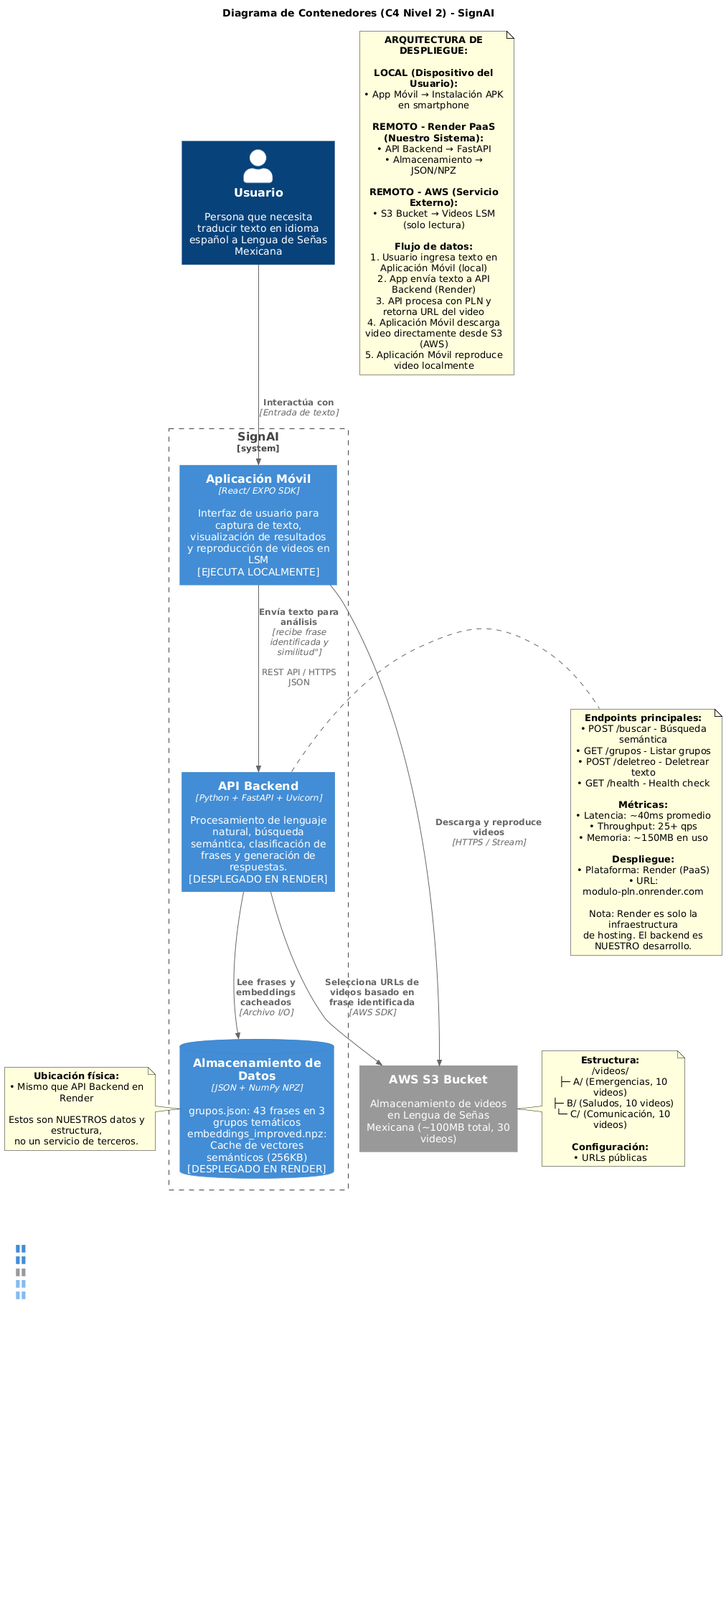
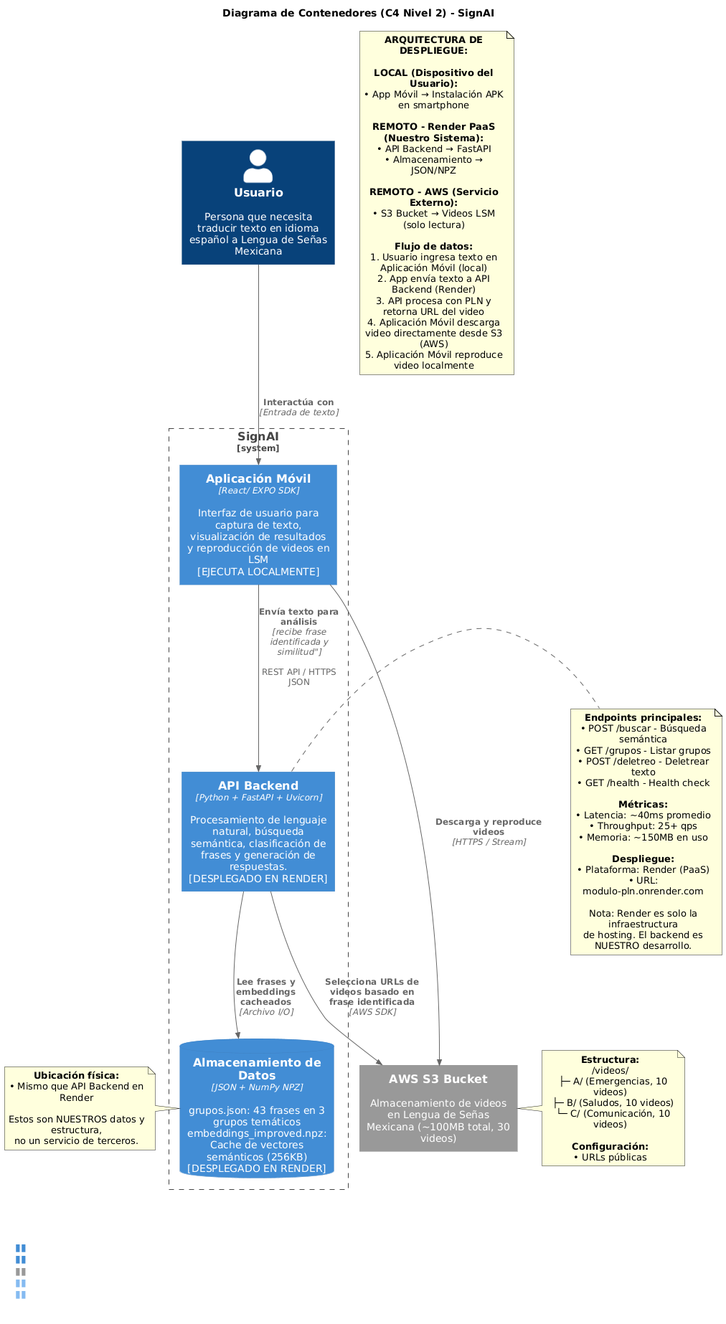
Cambios

diff --git a/Capitulo3.tex b/Capitulo3.tex
@@ -8,21 +8,21 @@ En primer lugar, se analiza la viabilidad, considerando los conocimientos del eq
 El análisis de viabilidad considera los conocimientos técnicos del equipo, la madurez de las tecnologías disponibles y las condiciones actuales para el desarrollo. Este análisis permite evaluar si el proyecto puede llevarse a cabo de manera exitosa bajo las condiciones planteadas.
 
 \subsubsection{Conocimientos y experiencia}
-El equipo de desarrollo posee conocimientos en herramientas de IA, particularmente en Procesamiento de Lenguaje Natural (PLN), así como habilidades básicas en edición y curaduría de recursos audiovisuales. Si bien en etapas tempranas del proyecto se exploraron alternativas basadas en modelado y animación 3D orientada a señas (ver \textbf{\nameref{anexo:blender_unity}}), en el alcance actual del prototipo se optó por un enfoque más acotado y realista, basado en el uso de animaciones en video generadas mediante servicios de IA en la nube.
+El equipo de desarrollo posee conocimientos en herramientas de IA, particularmente en Procesamiento de Lenguaje Natural (PLN), así como habilidades básicas en edición y curaduría de recursos audiovisuales. Si bien en etapas tempranas del proyecto se exploraron alternativas basadas en modelado y animación 3D orientada a señas (ver \textbf{\nameref{anexo:blender_unity}}), en el alcance actual del prototipo se optó por un enfoque más acotado y realista, basado en el uso de animaciones en video generadas mediante servicios de IA en la nube.\\
 
-En concreto, se empleó la plataforma \textit{GoEnhance AI} (\textit{GoEnhance AI - All-in-One AI Video Generator}), la cual permite crear videos a partir de texto, imágenes o clips existentes utilizando modelos avanzados de generación de video (por ejemplo, Runway, Kling o Veo~3). Este enfoque reduce la complejidad técnica asociada al rigging, al control de esqueletos 3D y a la integración de motores gráficos en tiempo real, permitiendo que el equipo concentre sus esfuerzos en el diseño del flujo de traducción, el procesamiento de texto y la integración de los videos de señas en la aplicación móvil.
+En concreto, se empleó la plataforma GoEnhance AI (GoEnhance AI - All-in-One AI Video Generator), la cual permite crear videos a partir de texto, imágenes o clips existentes utilizando modelos avanzados de generación de video (por ejemplo, Runway, Kling o Veo~3). Este enfoque reduce la complejidad técnica asociada al \textit{rigging}, al control de esqueletos 3D y a la integración de motores gráficos en tiempo real, permitiendo que el equipo concentre sus esfuerzos en el diseño del flujo de traducción, el procesamiento de texto y la integración de los videos de señas en la aplicación móvil.\\
 
 Aunque la experiencia directa del equipo en la Lengua de Señas Mexicana (LSM) es limitada, se considera viable la correcta representación de las frases del prototipo mediante el uso de referencias bibliográficas, materiales audiovisuales especializados y la validación manual del contenido generado. La disposición para el aprendizaje continuo y la consulta con fuentes especializadas respalda la viabilidad técnica del proyecto en función de las capacidades actuales del equipo.
 
 \subsubsection{Tecnologías disponibles}
-Actualmente existen diversas tecnologías y herramientas que facilitan la creación de sistemas de apoyo a la traducción de texto a señas, tales como conjuntos de datos de señas en video, plataformas de generación de video con IA, frameworks para el desarrollo de aplicaciones móviles y librerías para el procesamiento de lenguaje natural. En el presente proyecto se privilegiaron soluciones que reducen la carga de infraestructura y la complejidad de integración, aprovechando servicios en la nube y herramientas de desarrollo multiplataforma.
+Actualmente existen diversas tecnologías y herramientas que facilitan la creación de sistemas de apoyo a la traducción de texto a señas, tales como conjuntos de datos de señas en video, plataformas de generación de video con IA, \textit{frameworks} para el desarrollo de aplicaciones móviles y librerías para el procesamiento de lenguaje natural. En el presente proyecto se privilegiaron soluciones que reducen la carga de infraestructura y la complejidad de integración, aprovechando servicios en la nube y herramientas de desarrollo multiplataforma.\\
 
 Las tecnologías consideradas y efectivamente utilizadas en el prototipo incluyen:
 
 \begin{itemize}
 	\item Conjuntos de datos y videos de señas correspondientes a frases seleccionadas en LSM, generados y/o adaptados específicamente para el prototipo.
-	\item La plataforma \textit{GoEnhance AI}, empleada para generar videos de señas a partir de descripciones textuales, lo que permite obtener recursos audiovisuales consistentes sin requerir un pipeline local de modelado 3D ni motores de animación en tiempo real.
-	\item Frameworks de desarrollo móvil como React (19.0.0) y Expo SDK (54.0.0), que facilitan la construcción de una aplicación multiplataforma y la integración de videos de señas en la interfaz de usuario.
+	\item La plataforma GoEnhance AI, empleada para generar videos de señas a partir de descripciones textuales, lo que permite obtener recursos audiovisuales consistentes sin requerir un \textit{pipeline} local de modelado 3D ni motores de animación en tiempo real.
+	\item \textit{Frameworks} de desarrollo móvil como React (19.0.0) y Expo SDK (54.0.0), que facilitan la construcción de una aplicación multiplataforma y la integración de videos de señas en la interfaz de usuario.
 	\item Contenedores identificando las unidades desplegables (aplicación móvil React/Expo, API backend FastAPI con despliegue en Render PaaS, almacenamiento JSON/NPZ y un bucket de AWS S3 para el servicio de animaciones en video)
 	\item Herramientas de Procesamiento de Lenguaje Natural (PLN) para el análisis, normalización y segmentación de frases en español, que permiten mapear las entradas de texto de los usuarios a las frases disponibles en el repositorio de señas.
 \end{itemize}
@@ -36,7 +36,7 @@ El proyecto se desarrolla en el marco de un trabajo terminal académico, lo que 
 \subsection{Factibilidad}
 La factibilidad del proyecto se analiza considerando los recursos financieros, humanos y tecnológicos disponibles, así como el tiempo estimado para su desarrollo y finalización.
 
-\subsubsection{Recursos financieros}
+\noindent \textbf{Recursos financieros}
 El presente apartado tiene como objetivo evaluar los costos asociados al desarrollo, despliegue y potencial comercialización del prototipo. 
 
 Para ello, se plantea un análisis financiero estructurado en dos niveles: 
@@ -116,12 +116,12 @@ A continuación, se detallan los costos asociados a los servicios necesarios par
 			\hline
 			\textbf{Recurso o servicio} & \textbf{Costo mensual (MXN \$)} & \textbf{Costo a 4 meses (MXN \$)} & \textbf{Costo a 1 año (MXN \$)} \\ \hline
 			Electricidad e internet (oficina dedicada) & \$2,500.00 & \$10,000.00 & \$30,000.00 \\ \hline
-			Renta de espacio de coworking (para 4 personas) & \$9,000.00 & \$36,000.00 & \$108,000.00 \\ \hline
+			Renta de espacio de \textit{co-working} (para 4 personas) & \$9,000.00 & \$36,000.00 & \$108,000.00 \\ \hline
 			Suscripción a plataformas de desarrollo (GitHub Copilot, AWS, etc.) & \$800.00 & \$3,200.00 & \$9,600.00 \\ \hline
 			API de lenguaje natural (OpenAI GPT, DialogFlow) & \$1,000.00 & \$4,000.00 & \$12,000.00 \\ \hline
 			Servicios de almacenamiento en la nube (Google Cloud, Firebase, etc.) & \$750.00 & \$3,000.00 & \$9,000.00 \\ \hline
 			Servidor para aplicación móvil (Firebase/AWS) & \$1,200.00 & \$4,800.00 & \$14,400.00 \\ \hline
-			Licencia de software y/o servicios para animación y edición de video & \$1,500.00 & \$6,000.00 & \$18,000.00 \\ \hline
+			Licencia de \textit{software} y/o servicios para animación y edición de video & \$1,500.00 & \$6,000.00 & \$18,000.00 \\ \hline
 			Validación profesional de señas LSM (freelancer mensual) & \$5,000.00 & \$20,000.00 & \$60,000.00 \\ \hline
 			Servicios de soporte técnico y mantenimiento & \$3,000.00 & \$12,000.00 & \$36,000.00 \\ \hline
 			Marketing digital (redes sociales, web, SEO) & \$2,000.00 & \$8,000.00 & \$24,000.00 \\ \hline
@@ -133,7 +133,7 @@ A continuación, se detallan los costos asociados a los servicios necesarios par
 	\label{tab:costos_comercial}
 \end{table}
 
-
+\newpage
 \paragraph{\textbf{Compras no recurrentes.}} 
 En esta sección se presentan los costos estimados de artículos y adquisiciones necesarias para la creación del prototipo, clasificadas como compras no recurrentes. Estas compras representan inversiones únicas que no implican costos periódicos, pero que son fundamentales para el correcto desarrollo y prueba de la aplicación.
 
@@ -148,7 +148,7 @@ En esta sección se presentan los costos estimados de artículos y adquisiciones
 			\textbf{Recurso} & \textbf{Unidades} & \textbf{Costo unitario (MXN \$)} & \textbf{Costo total (MXN \$)} \\ \hline
 			Equipo de cómputo personal (propio de los integrantes) & 3 & -- & -- \\ \hline
 			Dispositivo Android para pruebas físicas & 1 & -- & -- \\ \hline
-			Capacitación online (cursos: PLN, LSM, Nube, etc.) & 3 cursos & \$800.00 & \$2,400.00 \\ \hline
+			Capacitación \textit{online} (cursos: PLN, LSM, Nube, etc.) & 3 cursos & \$800.00 & \$2,400.00 \\ \hline
 			Compra de recursos para animaciones (opcional) & 1 paquete & \$2,500.00 & \$2,500.00 \\ \hline
 			\textbf{Total compras no recurrentes} & & & \textbf{\$4,900.00} \\ \hline
 		\end{tabular}
@@ -200,8 +200,8 @@ El presente apartado presenta el costo estimado de los sueldos y asesorías cons
 			\hline
 			\textbf{Equipo} & \textbf{Cantidad} & \multicolumn{2}{c|}{\textbf{Desarrollo}} & \multicolumn{2}{c|}{\textbf{Mantenimiento / Ajustes}} \\ \hline
 			\textbf{Tipo} & & \textbf{Mensual (MXN \$)} & \textbf{4 meses (MXN \$)} & \textbf{Mensual (MXN \$)} & \textbf{A un año (MXN \$)} \\ \hline
-			Desarrollador Full Stack Junior (estudiante) & 3 & \$72,000.00 (\$24,000.00 c/u) & \$288,000.00 & -- & -- \\ \hline
-			Asesoría en animaciones (freelance) & 1 parcial & \$300.00 (por sesión) & \$1,200.00 (cuatro sesiones) & -- & -- \\ \hline
+			Desarrollador \textit{Full Stack Junior} (estudiante) & 3 & \$72,000.00 (\$24,000.00 c/u) & \$288,000.00 & -- & -- \\ \hline
+			Asesoría en animaciones (\textit{freelance}) & 1 parcial & \$300.00 (por sesión) & \$1,200.00 (cuatro sesiones) & -- & -- \\ \hline
 			Asesoría en LSM (validación de señas) & 1 parcial & \$200.00 (por sesión) & \$800.00 (cuatro sesiones) & -- & -- \\ \hline
 			\textbf{Total} & \textbf{5} & \textbf{\$72,500.00} & \textbf{\$290,000.00} & -- & -- \\ \hline
 		\end{tabular}
@@ -224,7 +224,7 @@ el sueldo en este caso, se considera un pago simbólico, sin embargo, el sueldo 
 			\hline
 			\textbf{Rol / Servicio} & \textbf{Cantidad} & \multicolumn{2}{c|}{\textbf{Desarrollo}} & \multicolumn{2}{c|}{\textbf{Mantenimiento / Ajustes}} \\ \hline
 			\textbf{Tipo} & & \textbf{Mensual (MXN \$)} & \textbf{4 meses (MXN \$)} & \textbf{Mensual (MXN \$)} & \textbf{A un año (MXN \$)} \\ \hline
-			Desarrollador backend / frontend & 2 & \$28,000.00 & \$224,000.00 & \$16,000.00 & \$192,000.00 \\ \hline
+			Desarrollador \textit{backend} / \textit{frontend} & 2 & \$28,000.00 & \$224,000.00 & \$16,000.00 & \$192,000.00 \\ \hline
 			Especialista en PLN & 1 & \$30,000.00 & \$120,000.00 & \$15,000.00 & \$180,000.00 \\ \hline
 			Diseñador de animaciones / animador & 1 & \$25,000.00 & \$100,000.00 & \$12,000.00 & \$144,000.00 \\ \hline
 			Asesoría profesional en LSM & 1 parcial & \$10,000.00 & \$40,000.00 & \$5,000.00 & \$60,000.00 \\ \hline
@@ -243,7 +243,7 @@ La columna de “Mantenimiento / Ajustes” se incluye únicamente como referenc
 
 
 \paragraph{\textbf{Presupuesto mediante actividades.}} 
-En el siguiente apartado, se presenta el presupuesto detallado por actividades, donde se especifica el tiempo estimado y el costo asociado a cada tarea del proyecto. Además, los valores por hora se ajustan para una estimación freelance o contratista externo (no asalariado fijo), ideal para la simulación de costos comerciales.  Los sueldos se consideran como un aproximado en México con fecha de mayo de 2025 \cite{ref71, ref72, ref73, ref74, ref75, ref76, ref77}.\\
+En el siguiente apartado, se presenta el presupuesto detallado por actividades, donde se especifica el tiempo estimado y el costo asociado a cada tarea del proyecto. Además, los valores por hora se ajustan para una estimación \textit{freelance} o contratista externo (no asalariado fijo), ideal para la simulación de costos comerciales.  Los sueldos se consideran como un aproximado en México con fecha de mayo de 2025 \cite{ref71, ref72, ref73, ref74, ref75, ref76, ref77}.\\
 
 Las actividades específicas y sus tiempos estimados se encuentran detallados en los anexos titulados \textbf{\nameref{anexo:actividades_academicas}} y \textbf{\nameref{anexo:actividades_comercial}} .
 
@@ -356,6 +356,7 @@ Esta doble perspectiva permite comparar la ejecución del despliegue del prototi
 \paragraph{\textbf{Escenario de posible futura etapa de comercialización.}}
 Este apartado presenta una proyección financiera elaborada bajo un enfoque comercial, con el objetivo de estimar los costos y condiciones necesarias para escalar el prototipo de aplicación a un producto funcional en el mercado. Aunque el presente trabajo terminal tiene un carácter académico, esta simulación permite anticipar los requerimientos económicos y técnicos para una eventual implementación comercial.
 
+\newpage
 \paragraph{\textbf{Análisis de costos.}}
 A continuación, se presenta el desglose de costos estimados para una fase inicial de comercialización del prototipo, considerando sueldos profesionales, infraestructura tecnológica, servicios especializados, mantenimiento y una reserva para riesgos:
 
@@ -424,14 +425,12 @@ Redondeando al entero más cercano:
 	\textbf{Nota final:} esta simulación financiera tiene carácter exploratorio y busca establecer un marco inicial para la evaluación económica del producto. Las cifras deberán ser validadas y refinadas mediante estudios de mercado y pruebas piloto antes de su implementación real.
 \end{flushleft}
 
-
-
-\subsubsection{Recursos humanos}
-El equipo de desarrollo está conformado por tres estudiantes de la carrera de Ingeniería en Inteligencia Artificial, con experiencia académica en proyectos de Ingeniería de software. Esta preparación garantiza que el equipo cuenta con las competencias necesarias para realizar el análisis, diseño, implementación, prueba y validación del prototipo propuesto.\\
+\textbf{Recursos humanos}\\
+El equipo de desarrollo está conformado por tres estudiantes de la carrera de Ingeniería en Inteligencia Artificial, con experiencia académica en proyectos de Ingeniería de \textit{software}. Esta preparación garantiza que el equipo cuenta con las competencias necesarias para realizar el análisis, diseño, implementación, prueba y validación del prototipo propuesto.\\
 
 Adicionalmente, se contempla la posibilidad de realizar capacitaciones específicas sobre LSM, manejo de conjuntos de datos de señas y técnicas de animación 3D, con el objetivo de reforzar el conocimiento técnico necesario para los módulos especializados del sistema.\\
 
-La asignación de tres integrantes al proyecto se fundamenta mediante una estimación del esfuerzo utilizando el modelo \textbf{COCOMO II (Constructive Cost Model II)}, específicamente en su modalidad \textit{Early Design Model}, apropiada para proyectos en etapas iniciales \cite{refcocomo}.\\
+La asignación de tres integrantes al proyecto se fundamenta mediante una estimación del esfuerzo utilizando el modelo \textbf{COCOMO II (\textit{Constructive Cost Model II})}, específicamente en su modalidad \textit{Early Design Model}, apropiada para proyectos en etapas iniciales \cite{refcocomo}.\\
 
 La fórmula del modelo es la siguiente:
 
@@ -444,7 +443,7 @@ Donde:
 \begin{itemize}
 	\item \textbf{PM} = Persona-meses estimados de esfuerzo.
 	\item \textbf{A} = Constante base del modelo. Se usa el valor estándar de $A = 2.94$.
-	\item \textbf{Tamaño} = Tamaño estimado del software en miles de líneas de código (KLOC). Se considera un tamaño de $2$ KLOC (2,000 líneas de código).
+	\item \textbf{Tamaño} = Tamaño estimado del \textit{software} en miles de líneas de código (KLOC). Se considera un tamaño de $2$ KLOC (2,000 líneas de código).
 	\item \textbf{E} = Exponente de escala. Para este proyecto se asume $E = 1.05$, valor apropiado para proyectos con requisitos moderadamente definidos.
 	\item $\prod EM_i$ = Producto de los multiplicadores de esfuerzo. Se asume un valor neutral de $1.0$, al tratarse de un entorno académico con condiciones estándar.
 \end{itemize}
@@ -471,10 +470,10 @@ Aunque el esfuerzo promedio mensual es inferior a una persona de tiempo completo
 \end{itemize}
 
 
-\subsubsection{Recursos tecnológicos}
-El equipo de trabajo dispone del equipo de cómputo necesario para el desarrollo, prueba y validación de la aplicación móvil. Además, se cuenta con acceso a las plataformas de desarrollo y a las herramientas de software requeridas, tales como ambientes de programación, bibliotecas especializadas de procesamiento de lenguaje natural (PLN), etc. Esta disponibilidad de recursos tecnológicos garantiza las condiciones adecuadas para la implementación efectiva del prototipo.
+\noindent \textbf{Recursos tecnológicos}\\
+El equipo de trabajo dispone del equipo de cómputo necesario para el desarrollo, prueba y validación de la aplicación móvil. Además, se cuenta con acceso a las plataformas de desarrollo y a las herramientas de \textit{software} requeridas, tales como ambientes de programación, bibliotecas especializadas de procesamiento de lenguaje natural (PLN), etc. Esta disponibilidad de recursos tecnológicos garantiza las condiciones adecuadas para la implementación efectiva del prototipo.\\
 
-\subsubsection{Plazo}
+\noindent \textbf{Plazo}\\
 El tiempo estimado para el desarrollo del prototipo es de aproximadamente ocho meses, considerando las fases de análisis, diseño, desarrollo, pruebas y presentación final. Dado que el alcance del proyecto se limita a la traducción de un conjunto predefinido de frases específicas, se considera que el plazo establecido es adecuado para cumplir con los objetivos planteados y la solución propuesta. \\
 
 El análisis realizado en esta sección, permite concluir que el proyecto es tanto viable como factible dentro del contexto académico en el cual se desarrolla. El equipo de trabajo cuenta con los conocimientos fundamentales, el acceso a las tecnologías requeridas y los recursos necesarios para la construcción de un prototipo funcional. Aunque se han identificado áreas que demandarán un proceso de capacitación complementaria como el aprendizaje de LSM y el entendimiento de las herramientas de animación, estas no representan un obstáculo significativo para el éxito del proyecto, siempre que se mantenga una adecuada gestión de tiempos y actividades conforme a los alcances establecidos. De este modo, se fortalecen las condiciones para lograr un desarrollo efectivo que cumpla con los objetivos planteados y a futuro siente las bases para una posible expansión comercial.\\
@@ -484,11 +483,11 @@ El análisis realizado en esta sección, permite concluir que el proyecto es tan
 \subsection{Arquitectura del sistema (modelo C4 y capas)}
 \subsubsection{Arquitectura del sistema (modelo C4 y capas)}
 
-La arquitectura de SignAI se documenta mediante el modelo C4 (\textit{Context, Containers, Components, Code}) propuesto por \cite{brown2018c4}, y adoptado en contextos académicos como complemento de UML por \cite{vazquez2020c4}. En este trabajo se implementan tres de sus cuatro niveles jerárquicos: \textbf{Contexto}, que establece el sistema como una caja negra dentro de su ecosistema; \textbf{Contenedores}, que identifican las unidades desplegables (aplicación móvil React/Expo, API backend FastAPI con despliegue en Render PaaS, almacenamiento JSON/NPZ y servicio externo AWS S3); y \textbf{Componentes}, que detallan la estructura interna del backend mediante sus módulos principales (API Layer, Matcher PLN, Embeddings Service, Preprocess Module y Groups Manager). El cuarto nivel (\textit{Code}) se sustituye por un diagrama de clases UML, enfoque consistente con la postura de \cite{brown2018c4} y con la experiencia reportada por \cite{vazquez2020c4}, quienes señalan que el modelo C4 complementa a UML en lugar de reemplazarlo.
+La arquitectura de SignAI se documenta mediante el modelo C4 (\textit{Context, Containers, Components, Code}) propuesto por \cite{brown2018c4}, y adoptado en contextos académicos como complemento de UML por \cite{vazquez2020c4}. En este trabajo se implementan tres de sus cuatro niveles jerárquicos: \textbf{Contexto}, que establece el sistema como una caja negra dentro de su ecosistema; \textbf{Contenedores}, que identifican las unidades desplegables (aplicación móvil React/Expo, API \textit{backend} FastAPI con despliegue en Render PaaS, almacenamiento JSON/NPZ y servicio externo AWS S3); y \textbf{Componentes}, que detallan la estructura interna del backend mediante sus módulos principales (API \textit{Layer}, \textit{Matcher} PLN, \textit{Embeddings Service}, \textit{Preprocess Module} y  \textit{Groups Manager}). El cuarto nivel (\textit{Code}) se sustituye por un diagrama de clases UML, enfoque consistente con la postura de \cite{brown2018c4} y con la experiencia reportada por \cite{vazquez2020c4}, quienes señalan que el modelo C4 complementa a UML en lugar de reemplazarlo.\\
 
-Adicionalmente, se incluyó un diagrama de arquitectura por capas que documenta la separación lógica presentación–servicios–datos, siguiendo los principios de \textit{Separation of Concerns} descritos por \cite{fowler2002patterns}. La decisión de implementar una arquitectura monolítica modular, en lugar de una basada en microservicios, responde a criterios de proporcionalidad arquitectónica: el sistema aborda un único dominio de negocio (procesamiento de lenguaje natural para búsqueda semántica en LSM), maneja un volumen de datos acotado (43 frases con \textit{embeddings} precomputados de aproximadamente 256~KB) y carece de requisitos que justifiquen la complejidad operacional de una arquitectura distribuida (como escalado independiente por componente, despliegue políglota o múltiples equipos trabajando en paralelo), tal como advierte la literatura especializada sobre los costes organizativos y técnicos de los microservicios en sistemas pequeños o de un solo dominio \cite{dragoni2017micro,aldebagy2018comparative,newman2021microservices}.
+Adicionalmente, se incluyó un diagrama de arquitectura por capas que documenta la separación lógica presentación–servicios–datos, siguiendo los principios de \textit{Separation of Concerns} descritos por \cite{fowler2002patterns}. La decisión de implementar una arquitectura monolítica modular, en lugar de una basada en microservicios, responde a criterios de proporcionalidad arquitectónica: el sistema aborda un único dominio de negocio (procesamiento de lenguaje natural para búsqueda semántica en LSM), maneja un volumen de datos acotado (43 frases con \textit{embeddings} precomputados de aproximadamente 256~KB) y carece de requisitos que justifiquen la complejidad operacional de una arquitectura distribuida (como escalado independiente por componente, despliegue políglota o múltiples equipos trabajando en paralelo), tal como advierte la literatura especializada sobre los costes organizativos y técnicos de los microservicios en sistemas pequeños o de un solo dominio \cite{dragoni2017micro,aldebagy2018comparative,newman2021microservices}.\\
 
-El diseño monolítico modular, con bajo acoplamiento entre componentes internos, facilita una posible migración futura a microservicios cuando las métricas de tráfico, el tamaño del \textit{dataset} o la complejidad organizacional lo justifiquen. Esta progresión documental, desde vistas de alto nivel (Contexto, Contenedores, Capas) hasta detalles de implementación (Componentes y diagrama de clases UML), permite una comprensión arquitectónica tanto para stakeholders técnicos como no técnicos, en concordancia con las mejores prácticas de documentación de arquitectura de software establecidas por \cite{bass2012software} y con las directrices del estándar ISO/IEC/IEEE~42010:2011 \cite{iso42010}, que recomiendan describir la arquitectura mediante múltiples vistas consistentes alineadas con las preocupaciones de los distintos interesados.
+El diseño monolítico modular, con bajo acoplamiento entre componentes internos, facilita una posible migración futura a microservicios cuando las métricas de tráfico, el tamaño del \textit{dataset} o la complejidad organizacional lo justifiquen. Esta progresión documental, desde vistas de alto nivel (Contexto, Contenedores, Capas) hasta detalles de implementación (Componentes y diagrama de clases UML), permite una comprensión arquitectónica tanto para \textit{stakeholders} técnicos como no técnicos, en concordancia con las mejores prácticas de documentación de arquitectura de \textit{software} establecidas por \cite{bass2012software} y con las directrices del estándar ISO/IEC/IEEE~42010:2011 \cite{iso42010}, que recomiendan describir la arquitectura mediante múltiples vistas consistentes alineadas con las preocupaciones de los distintos interesados.
 
 \subsubsection{Diagrama de contexto (C4 nivel 1)}
 \begin{center}
@@ -499,11 +498,12 @@ El diseño monolítico modular, con bajo acoplamiento entre componentes internos
 
 \subsubsection{Diagrama de contenedores (C4 nivel 2)}
 \begin{center}
-	\includegraphics[width=0.4\textwidth]{Images/Cap 3/contenedores_vf.png}
+	\includegraphics[width=0.7\textwidth]{Images/Cap 3/contenedores_vf.png}
 	\captionof{figure}[Diagrama de contenedores (C4 nivel 2)]{Diagrama de contenedores (C4 nivel 2), elaboración propia. 
 		Véase la versión SVG para mayor detalle en \href{https://tinyurl.com/4wjeeuzb}{\textbf{\underline{este enlace}}}.}  % Pie de foto manual
 \end{center}
 
+\newpage
 \subsubsection{Diagrama de componentes (C4 nivel 3)}
 \begin{center}
 	\includegraphics[width=0.4\textwidth]{Images/Cap 3/componentes_vf.png}
@@ -644,12 +644,12 @@ En este caso, los requerimientos no funcionales se basaron en los especificados 
 \subsubsection{Diagrama de actividades} 
 \begin{center}
 	\makebox[\textwidth]{%
-		\includegraphics[width=1\textwidth]{Images/Cap 3/actividades.png}
+		\includegraphics[width=0.94\textwidth]{Images/Cap 3/actividades.png}
 	}
 	\captionof{figure}[Diagrama de actividades del sistema]{Diagrama de actividades del sistema, elaboración propia.}
 \end{center}
 
-
+\newpage
 \subsubsection{Diagrama de clases}
 \begin{center}
 	\includegraphics[width=0.4\textwidth]{Images/Cap 3/clases_vf.png}
@@ -714,7 +714,7 @@ El usuario ingresa texto en la aplicación, que luego es procesado y traducido a
 	\label{tab:caso_uso_1}
 \end{table}
 
-
+\newpage
 \subsubsection{Trayectoria principal}
 \begin{enumerate}[label=\textbf{\arabic*}, leftmargin=1.5cm]
 	\item \UCsystem \ El sistema muestra un campo de entrada de texto en la pantalla principal de la aplicación, permitiendo al usuario ingresar texto.  
@@ -760,18 +760,24 @@ El usuario ingresa texto en la aplicación, que luego es procesado y traducido a
 	\centering
 	\begin{tabularx}{\textwidth}{|X|X|X|}
 		\hline
-		\textbf{Emergencia (3 a 4 palabras)} & \textbf{Saludo (1 a 3 palabras)} & \textbf{Expresiones de Mínima Comunicación (2 a 4 palabras)} \\ \hline
+		\textbf{Emergencia (3 a 4 palabras)} & \textbf{Saludo (1 a 3 palabras)} & \textbf{Expresiones de Mínima Comunicación (1 a 3palabras)} \\ \hline
 		Ayuda, por favor. & Hola. & Gracias. \\ \hline
 		Llama a la policía. & Buenos días. & Soy Sordo. \\ \hline
 		Necesito un médico. & Buenas tardes. & Sí. \\ \hline
 		Estoy herido. & Buenas noches. & No. \\ \hline
 		¿Dónde está el hospital? & ¿Cómo estás? & Bien. \\ \hline
 		Es una emergencia. & Bienvenido. & Mal. \\ \hline
-		¿Necesitas ayuda? & Encantado de conocerte. & Perdón. \\ \hline
+		¿Necesitas ayuda? & Mucho gusto. & Perdón. \\ \hline
 		¿Dónde está la salida? & ¿Cómo te llamas? & Entiendo. \\ \hline
-		¡Fuego! ¡Fuego! & Me llamo [nombre]. & No Entiendo. \\ \hline
+		Incendio & Me llamo [nombre]. & No Entiendo. \\ \hline
 		Estoy sangrando. & Nos vemos. & No lo sé. \\ \hline
-		Alto. & Me voy. & Espera \\ \hline
+		Alto. & Me voy. & Muchas gracias. \\ \hline
+		Auxilio. & Adios. & Te lo agradezco. \\ \hline
+		Socorro. & Hasta luego. & Espera. \\ \hline
+		 &  & Disculpa. \\ \hline
+		 &  & Lo siento. \\ \hline
+		 &  & De acuerdo. \\ \hline
+		 &  & Vale. \\ \hline
 	\end{tabularx}
 	\caption[Identificación de frases]{Identificación de frases, elaboración propia.}
 \end{table}

diff --git a/Capitulo4.tex b/Capitulo4.tex
@@ -2,15 +2,15 @@
 \section{Justificación de los cambios}
 \label{implementación:justificación_cambios}
 
-Durante la fase de planeación se estableció un conjunto de 33 frases, distribuidas en tres categorías principales: saludos, expresiones de emergencia y agradecimientos, con el propósito de representar situaciones comunes de comunicación básica. Sin embargo, se identificó que las frases correspondientes a la categoría de agradecimientos como “gracias”, “muchas gracias” o “te lo agradezco” compartían un mismo gesto en LSM. Esto generaba redundancia semántica y gestual, ya que diferentes frases se traducían a una única seña, sin aportar valor adicional al conjunto de datos ni al propósito comunicativo del prototipo.\\
+Durante la fase de planeación se estableció un conjunto de 43 frases, distribuidas en tres categorías principales: saludos, expresiones de emergencia y agradecimientos, con el propósito de representar situaciones comunes de comunicación básica. Sin embargo, se identificó que las frases correspondientes a la categoría de agradecimientos como “gracias”, “muchas gracias” o “te lo agradezco” compartían un mismo gesto en LSM. Esto generaba redundancia semántica y gestual, ya que diferentes frases se traducían a una única seña, sin aportar valor adicional al conjunto de datos ni al propósito comunicativo del prototipo.\\
 
 Se optó por sustituir la categoría de agradecimientos por una nueva categoría denominada expresiones de mínima comunicación, la cual incluye frases breves y funcionales utilizadas en interacciones cotidianas. Esta modificación permitió ampliar la cobertura comunicativa del prototipo, garantizando una mayor variedad de gestos en escenarios reales de comunicación entre personas oyentes y personas con discapacidad auditiva.\\
 
 Por otro lado, en el capítulo 1 y 2 se indicó que el desarrollo del prototipo incluiría el modelado 3D de avatares mediante MediaPipe, con procesamiento en Blender o Unity. Sin embargo, durante el desarrollo del Trabajo Terminal se identificaron diversas limitaciones técnicas y operativas que impidieron la implementación de esta fase.\\
 
-MediaPipe permite capturar un esqueleto en forma de nube de puntos a partir de un video o en tiempo real, generando un archivo en formato JSON con las coordenadas de las articulaciones. Este archivo puede convertirse a formato BVH para su uso en software de animación como Blender. No obstante, se observó que MediaPipe no logra capturar la totalidad de las articulaciones del cuerpo humano, lo que ocasiona que el archivo BVH resultante esté incompleto al momento de su importación en Blender.\\
+MediaPipe permite capturar un esqueleto en forma de nube de puntos a partir de un video o en tiempo real, generando un archivo en formato JSON con las coordenadas de las articulaciones. Este archivo puede convertirse a formato BVH para su uso en \textit{software} de animación como Blender. No obstante, se observó que MediaPipe no logra capturar la totalidad de las articulaciones del cuerpo humano, lo que ocasiona que el archivo BVH resultante esté incompleto al momento de su importación en Blender.\\
 
-Esta situación requería realizar un procesamiento manual de cada animación, lo que representaba una curva de aprendizaje considerable, dado que Blender es una herramienta compleja que demanda tiempo y experiencia para crear animaciones detalladas, especialmente aquellas que involucran movimientos de los dedos. Dado que el proyecto contemplaba 60 animaciones distintas, el tiempo y los recursos necesarios para completarlas excedían los límites establecidos para este Trabajo Terminal.\\
+Esta situación requería realizar un procesamiento manual de cada animación, lo que representaba una curva de aprendizaje considerable, dado que Blender es una herramienta compleja que demanda tiempo y experiencia para crear animaciones detalladas, especialmente aquellas que involucran movimientos de los dedos. Dado que el proyecto contemplaba 70 animaciones distintas, el tiempo y los recursos necesarios para completarlas excedían los límites establecidos para este Trabajo Terminal.\\
 
 También se consideró la posibilidad de utilizar captura de movimiento (\textit{motion capture}) mediante un traje de captura de movimiento, con el fin de mejorar la detección de dedos y gestos faciales. Sin embargo, esta alternativa implicaba una inversión económica elevada y la colaboración de expertos en animación, lo cual resultaba inviable dentro del alcance y recursos disponibles del proyecto.\\
 
@@ -82,12 +82,12 @@ Entorno de desarrollo principal. \\ \hline
 \section{Lógica del Flujo y Validación}
 
 \subsection{Validación de Caracteres y campo vacío}
-La aplicación impone una \textbf{validación estricta} en la entrada de texto para asegurar que solo se procese contenido traducible a LSM, esto con base en la regla de negocio RN03.
+La aplicación impone una \textbf{validación estricta} en la entrada de texto para asegurar que solo se procese contenido traducible a LSM, esto con base en la regla de negocio RN03 (ver \textbf{\autoref{tab:reglas_negocio}}).
 
 \begin{itemize}
     \item Los caracteres no permitidos se definen en la constante \texttt{CARACTERES\_NO\_PERMITIDOS}, incluyendo números y la mayoría de los símbolos de puntuación exceptuando los signos de interrogación ya que dentro del listado de frases hay preguntas.
     \item La función \texttt{validarTexto} verifica la entrada. El único símbolo permitido fuera de las letras y espacios es el \textbf{símbolo de concatenación "\texttt{+}"}.
-    \item Si se detecta un carácter inválido, se interrumpe la ejecución de \texttt{traducir} y se activa el componente \texttt{errorValidationContainer} para informar al usuario el carácter específico y su nombre, pidiendole que ingrese en una nueva entrada cumpliendo con la regla de negocio RN05 Y RN06.
+    \item Si se detecta un carácter inválido, se interrumpe la ejecución de \texttt{traducir} y se activa el componente \texttt{errorValidationContainer} para informar al usuario el carácter específico y su nombre, pidiendole que ingrese en una nueva entrada cumpliendo con la regla de negocio RN05 Y RN06 (ver \textbf{\autoref{tab:reglas_negocio}}).
 \end{itemize}
 
 \subsection{Mecanismo de Procesamiento de la API y Deletreo}

diff --git a/Capitulo5.tex b/Capitulo5.tex
@@ -703,7 +703,7 @@ La implementación de la aplicación \textbf{SignAI} ha demostrado ser exitosa, 
 
 
 \subsection{Adherencia a las Reglas de Negocio}
-La aplicación respeta estrictamente las reglas de negocio críticas para la experiencia del usuario y la seguridad del sistema:
+La aplicación respeta estrictamente las reglas de negocio críticas para la experiencia del usuario y la seguridad del sistema (ver \textbf{\autoref{tab:reglas_negocio}}):
 
 \begin{itemize}
     \item \textbf{RN01 (Entrada manual)}: la aplicación solo permite al usuario ingresar el texto de forma manual.
@@ -1695,7 +1695,7 @@ Render es una plataforma moderna de nube unificada (\textit{Unified Cloud Platfo
 \textbf{Ventajas del Despliegue en Render}\\
 \begin{enumerate}
     \item \textbf{Accesibilidad 24/7:} La API está disponible globalmente, permitiendo que el APK final funcione sin requerir que la laptop del desarrollador esté encendida o conectada a la misma red local \cite{refapp5}.
-    \item \textbf{Separación Clara de Responsabilidades:} Se refuerza la arquitectura modular: el Frontend se encarga de la interfaz y la reproducción, y Render se encarga de la lógica de negocio y el PLN \cite{refapp5}.
+    \item \textbf{Separación Clara de Responsabilidades:} Se refuerza la arquitectura modular: el \textit{Frontend} se encarga de la interfaz y la reproducción, y Render se encarga de la lógica de negocio y el PLN \cite{refapp5}.
     \item \textbf{Actualizaciones Transparentes:} Cualquier mejora en el módulo de PLN (ej., ajuste de umbrales, mejora del modelo) se realiza actualizando el código en Render. Esta mejora es instantánea para el usuario final del APK, sin necesidad de que descarguen una nueva versión de la aplicación \cite{refapp6}.
     \item \textbf{Escalabilidad:} Render ofrece la capacidad de escalar el servicio de FastAPI de forma independiente si la demanda del servicio de traducción aumenta, garantizando el rendimiento sin afectar la experiencia de usuario del cliente móvil \cite{refapp6}.
 \end{enumerate}
